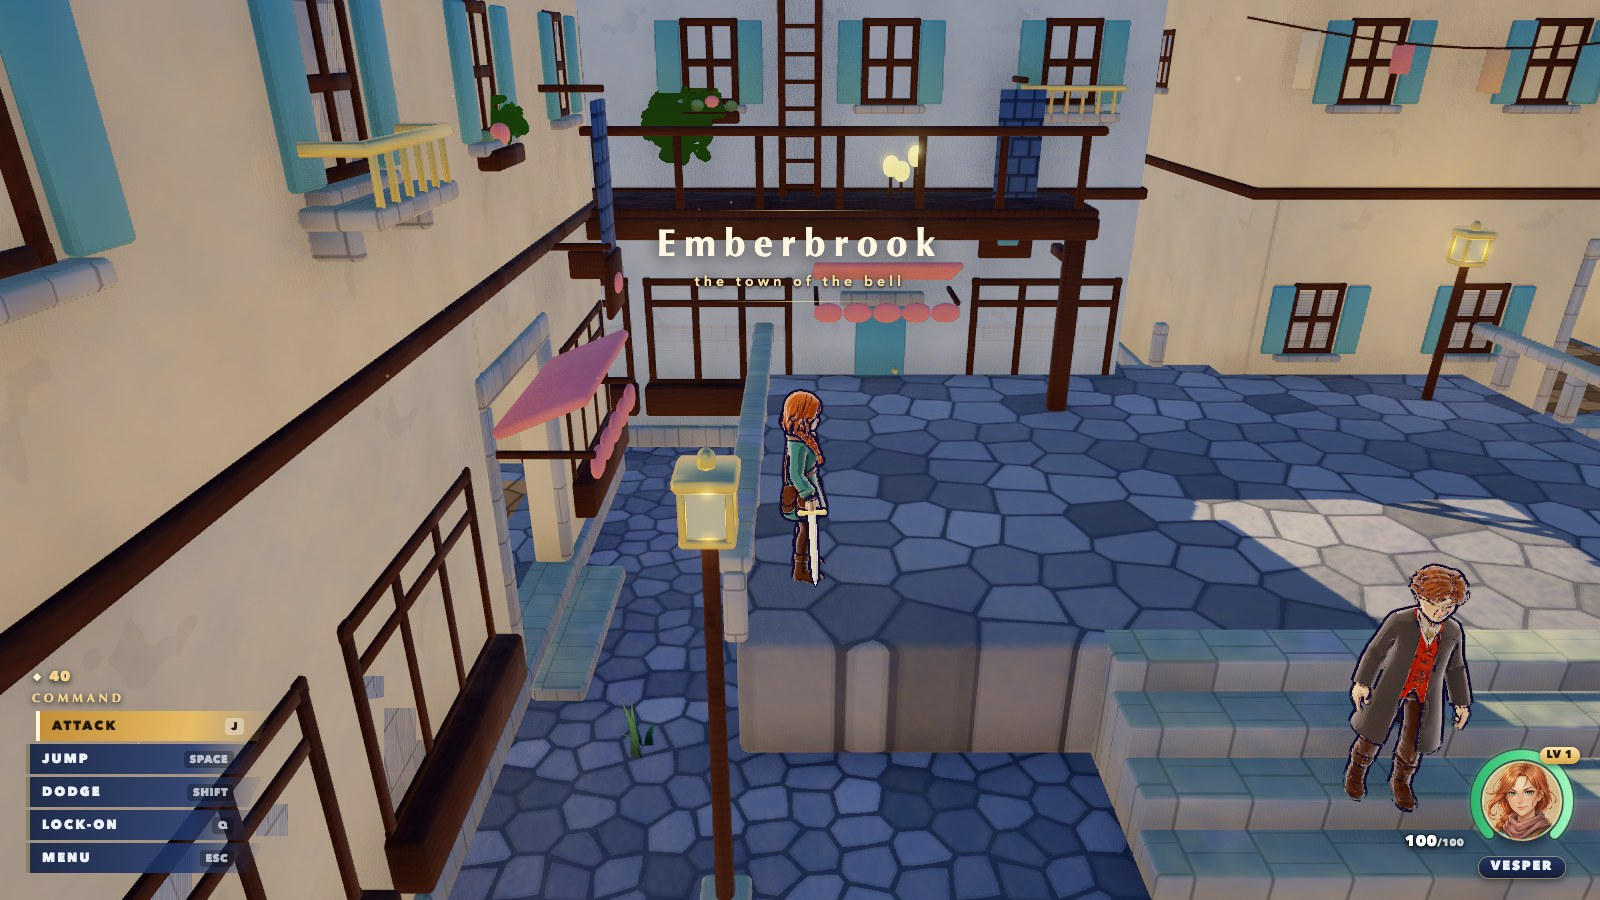
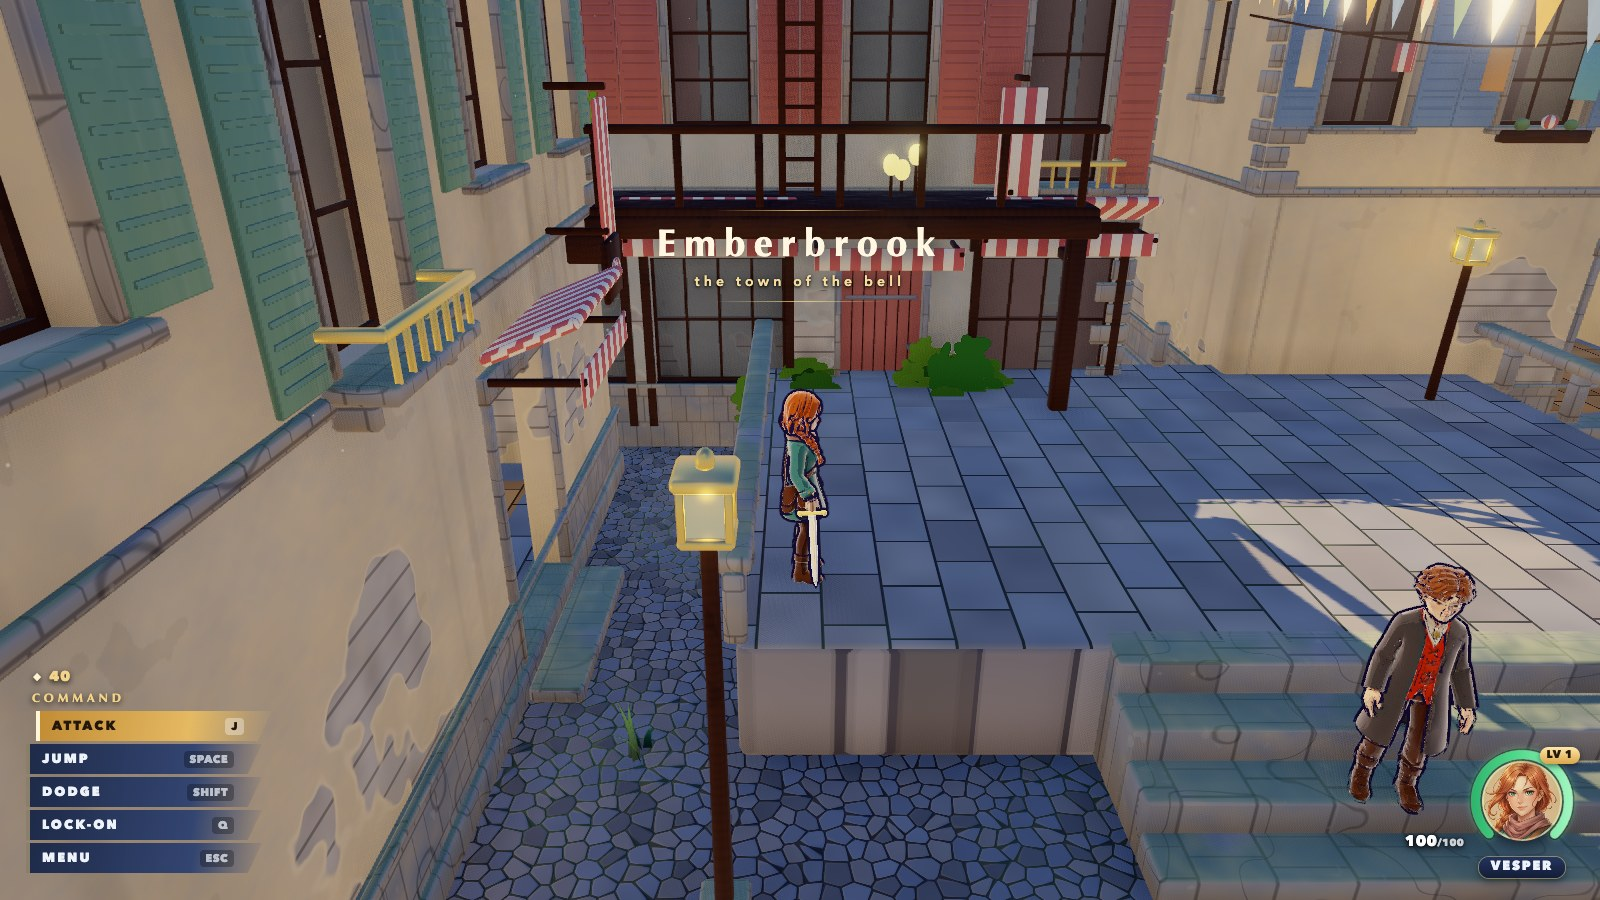
Rooms keep their walls whole; paving stops mirroring the sky
Claude-Session: https://claude.ai/code/session_01MB2g1DrxFLzAHurbUARdLf

diff --git a/public/js/paint.js b/public/js/paint.js
@@ -158,10 +158,11 @@ const RECIPES = {
   // PAVING IS PROCEDURAL: see PAVE below. The builder's Voronoi texture drew
   // stones a third of a metre across in one blue-grey, tiled every 3.2 m --
   // toy bricks, not a street.
-  cobble:    { hue: [0.08, 0.35], rough: 0.82, env: 0.85, pave: 1 },
-  cobble_b:  { hue: [0.08, 0.35], rough: 0.82, env: 0.85, pave: 1 },
-  flagstone: { hue: [0.10, 0.40], rough: 0.80, env: 0.85, pave: 2 },
-  ring:      { hue: [0.10, 0.40], rough: 0.78, env: 0.85, pave: 2 },
+  // env 0.55: stone underfoot mirrored enough sky to read as blue ice
+  cobble:    { hue: [0.08, 0.35], rough: 0.9, env: 0.6, pave: 1 },
+  cobble_b:  { hue: [0.08, 0.35], rough: 0.9, env: 0.6, pave: 1 },
+  flagstone: { hue: [0.10, 0.40], rough: 0.92, env: 0.38, pave: 2 },
+  ring:      { hue: [0.10, 0.40], rough: 0.92, env: 0.38, pave: 2 },
   stone:     { hue: [0.22, 0.55], bump: [0.70, 1.4], mapBump: 0.7, mapFade: 0.35, moss: 0.45, grime: 0.25, rough: 0.88, env: 0.85, lichen: 0.5 },
   rock:      { hue: [0.30, 0.30], bump: [2.2, 0.8], mapBump: 0.4, mapFade: 0.85, moss: 0.55, rough: 0.92, env: 0.8, tint: [0.62, 0.60, 0.56], lichen: 1 },
   // the far ranges: dark forested hills that the air pass turns blue
@@ -280,7 +281,9 @@ float pIndoor(vec3 p, vec3 n) {
   for (int i = 0; i < 8; i++) {
     vec3 lo = uRoomLo[i], hi = uRoomHi[i];
     if (hi.x < lo.x) continue;
-    vec3 e = vec3(0.4);
+    // 0.8: a room's box is inset from its walls (it is the CAMERA's box, kept
+    // clear of them), so the walls themselves sit up to ~0.6 m outside it
+    vec3 e = vec3(0.8, 0.4, 0.8);
     if (any(lessThan(p, lo - e)) || any(greaterThan(p, hi + e))) continue;
     bool inside = all(greaterThan(p, lo)) && all(lessThan(p, hi));
     bool facing = dot(n, (lo + hi) * 0.5 - p) > 0.0;
@@ -416,7 +419,7 @@ vec3 pPaveTilt = vec3(0.0);
     // flags have tight joints and sandstone faces; cobbles have wide earthy ones
     float stoneK = uPave < 1.5 ? smoothstep(0.06, 0.13, gap) : smoothstep(0.012, 0.03, gap);
     vec3 warm = vec3(0.36, 0.31, 0.25), cool = vec3(0.31, 0.30, 0.29), dark = vec3(0.22, 0.20, 0.17);
-    if (uPave > 1.5) { warm = vec3(0.48, 0.42, 0.33); cool = vec3(0.42, 0.39, 0.34); dark = vec3(0.34, 0.30, 0.25); }
+    if (uPave > 1.5) { warm = vec3(0.52, 0.44, 0.33); cool = vec3(0.46, 0.41, 0.34); dark = vec3(0.36, 0.31, 0.25); }
     vec3 sc = mix(mix(cool, warm, smoothstep(0.2, 0.7, id)), dark, step(0.82, id) * 0.8);
     sc *= 0.86 + 0.28 * pNoise(vPW * 2.3 + id * 17.0);
     // wear: stones on the walked line are polished paler; the edges of the
@@ -464,8 +467,10 @@ vec3 pPaveTilt = vec3(0.0);
     float pn = pFbm(vPW * 0.95 + 13.0) + pNoise(vPW * 4.0) * 0.10;
     // mostly low on the wall, where the damp gets in
     float low = 1.0 - smoothstep(1.5, 5.0, vPW.y) * 0.6;
-    float spall = smoothstep(0.64, 0.655, pn * low + 0.04) * vert;
-    float lip = smoothstep(0.62, 0.64, pn * low + 0.04) * (1.0 - spall) * vert;
+    // outside only: rooms have their own weather
+    float outside = 1.0 - pIndoor(vPW, pWN);
+    float spall = smoothstep(0.64, 0.655, pn * low + 0.04) * vert * outside;
+    float lip = smoothstep(0.62, 0.64, pn * low + 0.04) * (1.0 - spall) * vert * outside;
     float course = abs(fract(vPW.y / 0.22) - 0.5);
     vec3 rubble = mix(vec3(0.46, 0.41, 0.34), vec3(0.62, 0.56, 0.46), pNoise(vPW * 5.0))
                 * mix(0.55, 1.0, smoothstep(0.03, 0.08, course));
